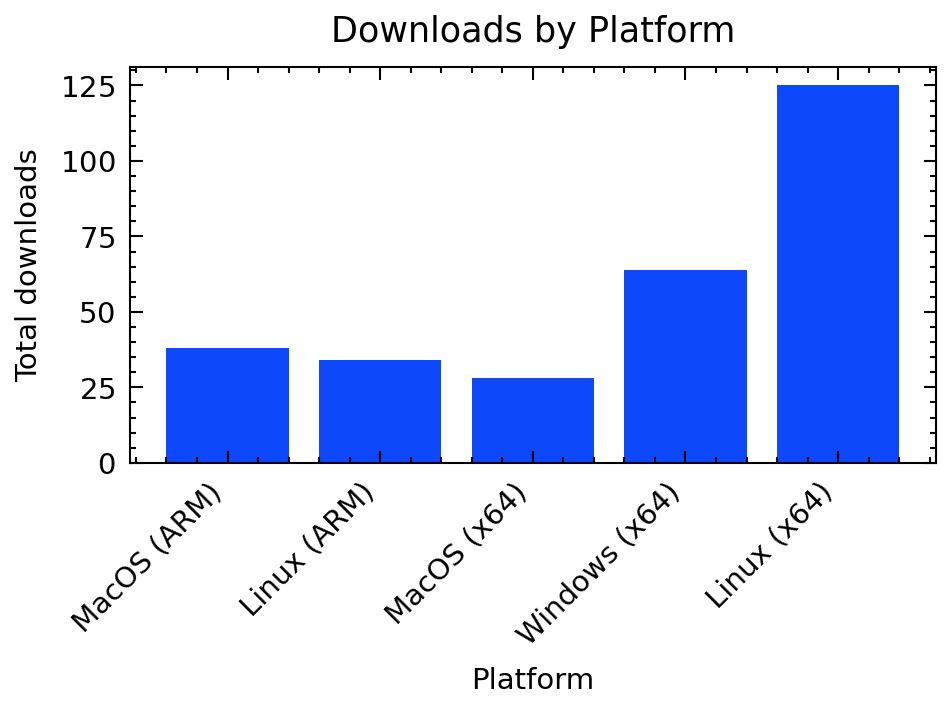
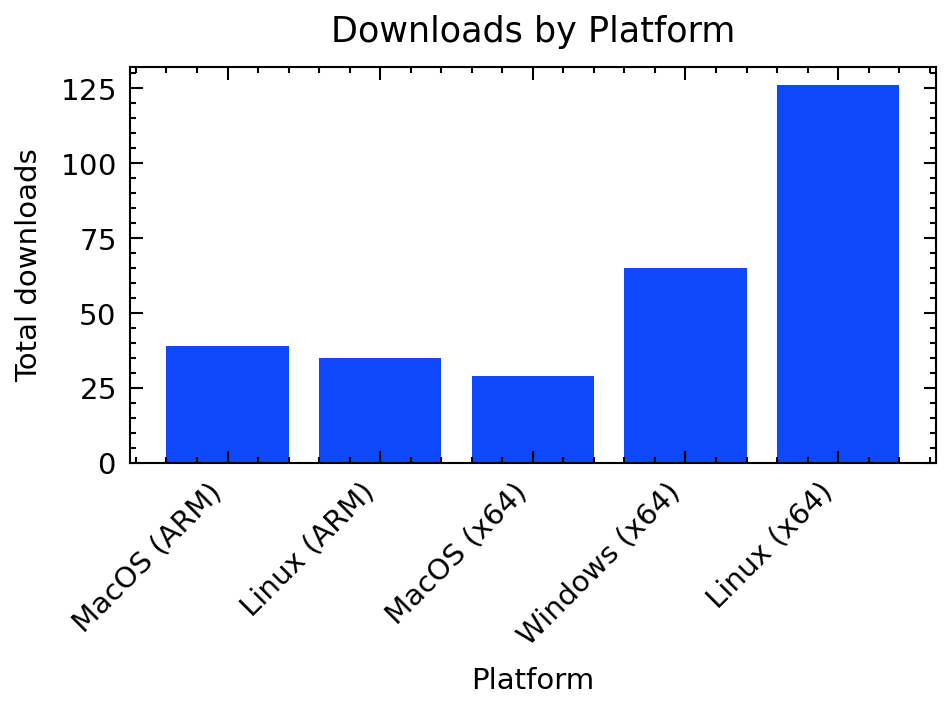
Updated Metrics data

diff --git a/README.md b/README.md
@@ -4,7 +4,7 @@
 SciWIn-Client helps users creating **Computational Workflows** in CWL. Detailed Information about SciWIn-Client can be found in the [GitHub Repository](https://github.com/fairagro/m4.4_sciwin_client). The Metrics shown below have been calculated using the GitHub API. Presentation is done via a CWL Workflow and the scripts in this repository.
 
 ## Downloads by Version
-SciWIn-Client currently has about 289 overall downloads across all versions and operating systems. The lastest version v1.0.0 currently has 83 downloads.
+SciWIn-Client currently has about 294 overall downloads across all versions and operating systems. The lastest version v1.1.0 currently has 5 downloads.
 
 
 ![downloads by version](release.png)
@@ -12,6 +12,7 @@ SciWIn-Client currently has about 289 overall downloads across all versions and 
 
 | Version | Downloads |
 |---------|-----------|
+| v1.1.0 | 5|
 | v1.0.0 | 83|
 | v0.8.0 | 34|
 | v0.7.0 | 21|
@@ -27,7 +28,7 @@ SciWIn-Client currently has about 289 overall downloads across all versions and 
 
 
 ## Downloads by Operating System
-SciWIn-Client is used on all major operating systems. There are 159 downloads of the Linux executable, 64 downloads of the Windows executable and 66 downloads of the Mac OS executable.
+SciWIn-Client is used on all major operating systems. There are 161 downloads of the Linux executable, 65 downloads of the Windows executable and 68 downloads of the Mac OS executable.
 
 
 ![downloads by platform](platform.png)
@@ -35,15 +36,15 @@ SciWIn-Client is used on all major operating systems. There are 159 downloads of
 
 | Platform | Downloads |
 |---------|-----------|
-| MacOS (ARM) | 38|
-| Linux (ARM) | 34|
-| MacOS (x64) | 28|
-| Windows (x64) | 64|
-| Linux (x64) | 125|
+| MacOS (ARM) | 39|
+| Linux (ARM) | 35|
+| MacOS (x64) | 29|
+| Windows (x64) | 65|
+| Linux (x64) | 126|
 
 
 ## Historical Download Chart
-The historical download chart can be viewed below. It is shown how the 289 overall downloads progressed over time by using the commited data of this repository.
+The historical download chart can be viewed below. It is shown how the 294 overall downloads progressed over time by using the commited data of this repository.
 
 
 ![downloads by date](history.png)
